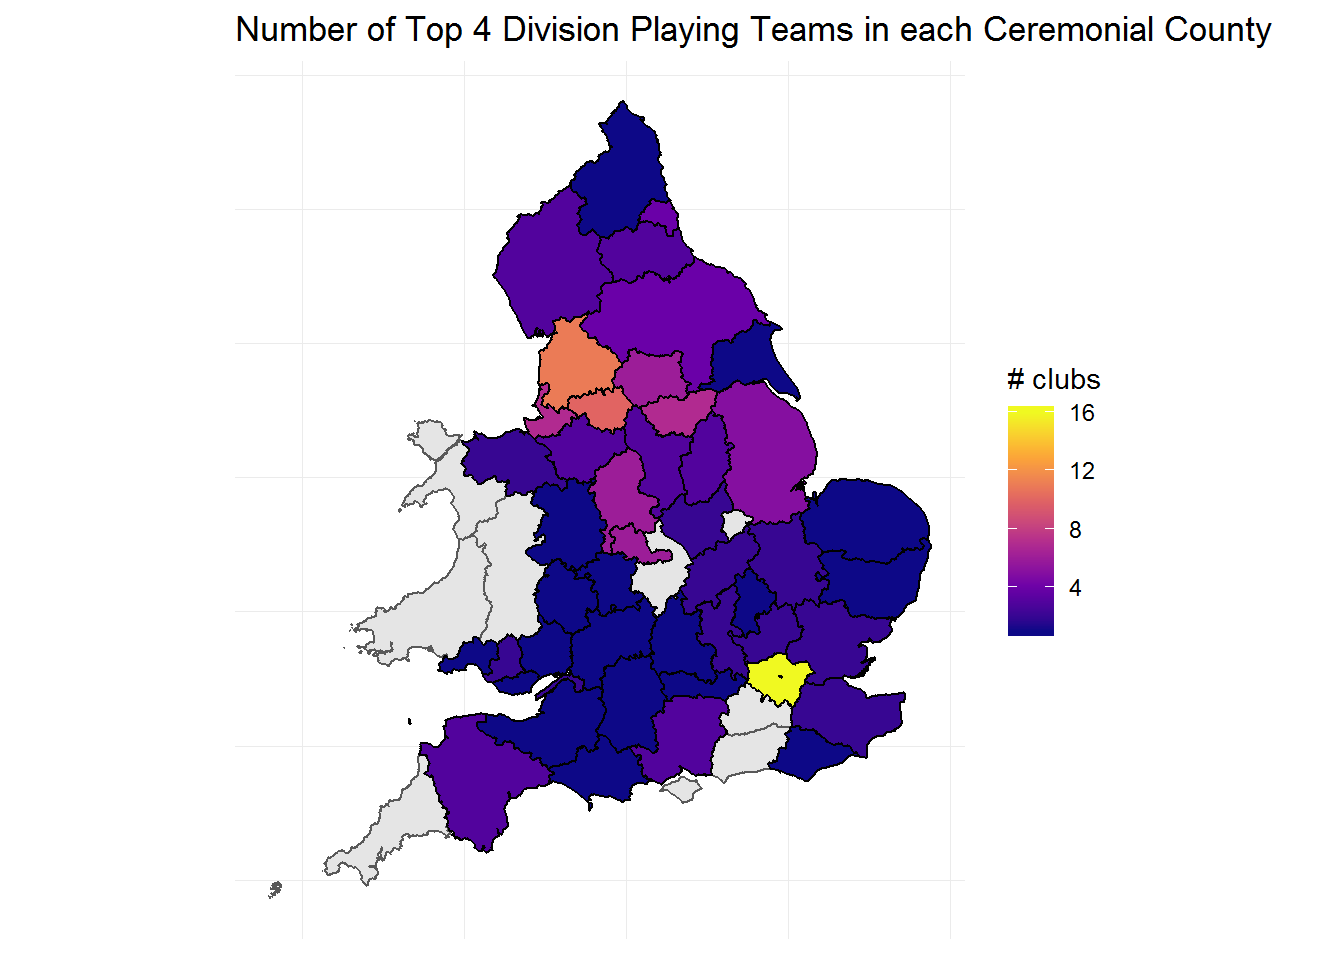
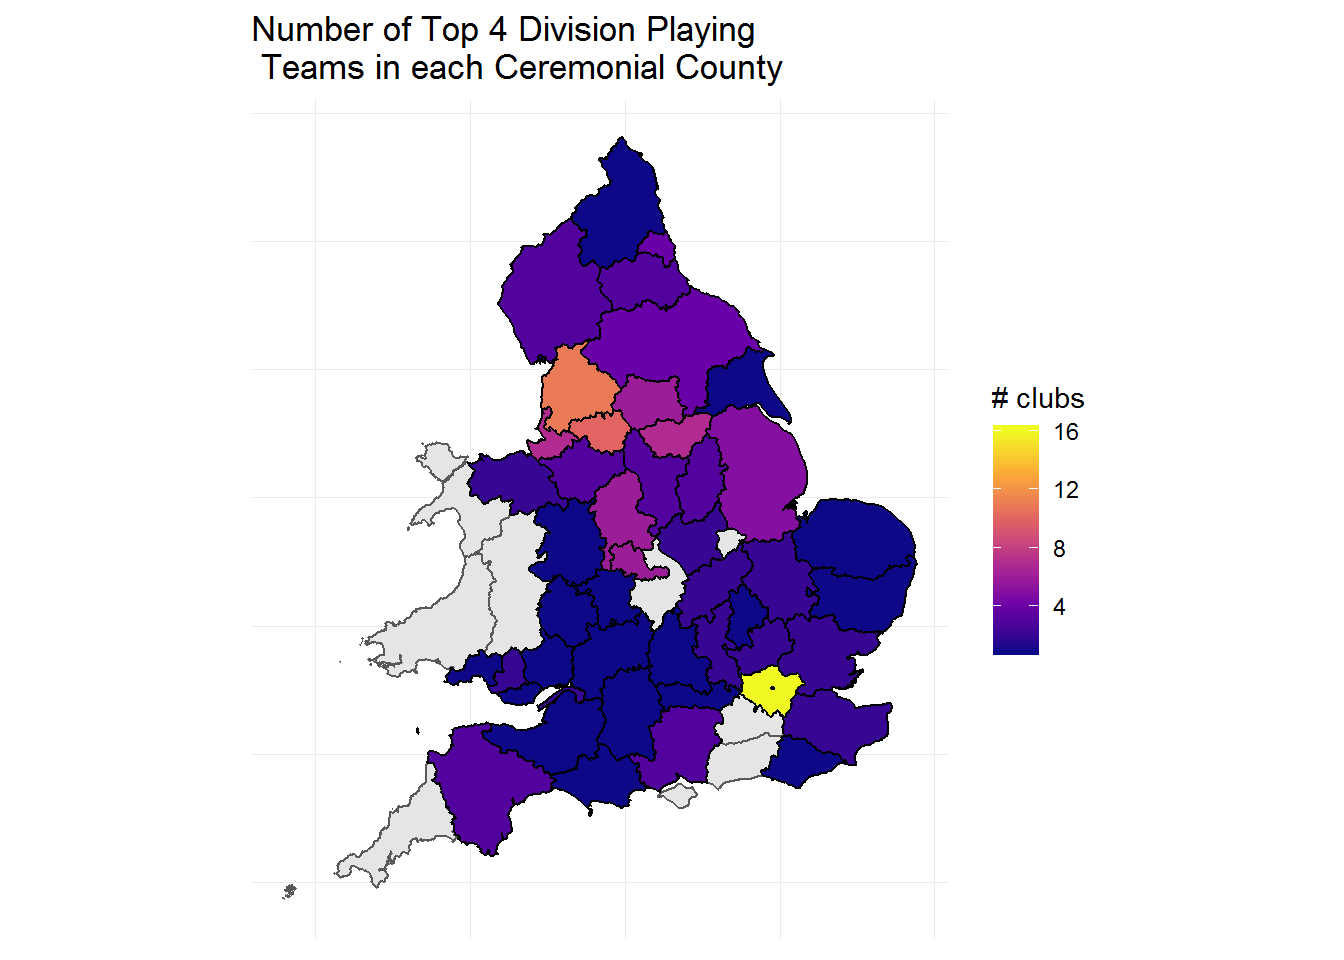
more small changes to 2nd knowledge post

Changed region(s): [[0.1875, 0.0, 0.9375, 0.9375], [0.3438, 0.875, 0.375, 0.9062], [0.1875, 0.9062, 0.2188, 0.9375]]

diff --git a/content/post/2019-01-21-The_Knowledge_2.html b/content/post/2019-01-21-The_Knowledge_2.html
@@ -194,7 +194,7 @@ engwal &lt;- counties %&gt;%
 ggplot() +
   geom_sf(data = counties, fill = NA) +
   geom_sf(data = all_locations) +
-  ggtitle(&quot;Location of All Teams to have Played Top 4 English Football Divisions&quot;) +
+  ggtitle(&quot;Location of Teams to have Played Top\n 4 English Football Divisions&quot;) +
   theme_minimal() +
   theme(axis.title=element_blank(),
         axis.text=element_blank(),
@@ -217,7 +217,7 @@ counties %&gt;%
   geom_sf(data = engwal) +
   geom_sf(aes(fill = n_clubs), colour = &quot;black&quot;) +
   scale_fill_viridis_c(option = &quot;plasma&quot;, name = &quot;# clubs&quot;) +
-  ggtitle(&quot;Number of Top 4 Division Playing Teams in each Ceremonial County&quot;) +
+  ggtitle(&quot;Number of Top 4 Division Playing\n Teams in each Ceremonial County&quot;) +
   theme_minimal() +
   theme(axis.title=element_blank(),
         axis.text=element_blank(),
@@ -273,7 +273,7 @@ county_points &lt;- county_match_data %&gt;%
   geom_sf(data = engwal) +
   geom_sf(aes(fill = total_points), colour = &quot;black&quot;) +
   scale_fill_viridis_c(option = &quot;plasma&quot;, name = &quot;total points&quot;) +
-  ggtitle(&quot;Number of Points Won by each County per Tier of English Football&quot;) +
+  ggtitle(&quot;Number of Points Won by each County\n per Tier of English Football&quot;) +
   facet_wrap(~tier) +
   theme_minimal() +
   theme(axis.title=element_blank(),
@@ -292,7 +292,7 @@ county_points &lt;- county_match_data %&gt;%
   geom_sf(data = engwal) +
   geom_sf(aes(fill = total_points), colour = &quot;black&quot;, name = &quot;total points&quot;) +
   scale_fill_viridis_c(option = &quot;plasma&quot;) +
-  ggtitle(&quot;Number of Points Won by each County per Tier of English Football&quot;,
+  ggtitle(&quot;Number of Points Won by each County\n per Tier of English Football&quot;,
           subtitle = &quot;From Begining of 1992/1993 Season&quot;) +
   facet_wrap(~tier) +
   theme_minimal() +

diff --git a/public/post/counties_league_points/index.html b/public/post/counties_league_points/index.html
@@ -504,7 +504,7 @@ engwal &lt;- counties %&gt;%
 ggplot() +
   geom_sf(data = counties, fill = NA) +
   geom_sf(data = all_locations) +
-  ggtitle(&quot;Location of All Teams to have Played Top 4 English Football Divisions&quot;) +
+  ggtitle(&quot;Location of Teams to have Played Top\n 4 English Football Divisions&quot;) +
   theme_minimal() +
   theme(axis.title=element_blank(),
         axis.text=element_blank(),
@@ -527,7 +527,7 @@ counties %&gt;%
   geom_sf(data = engwal) +
   geom_sf(aes(fill = n_clubs), colour = &quot;black&quot;) +
   scale_fill_viridis_c(option = &quot;plasma&quot;, name = &quot;# clubs&quot;) +
-  ggtitle(&quot;Number of Top 4 Division Playing Teams in each Ceremonial County&quot;) +
+  ggtitle(&quot;Number of Top 4 Division Playing\n Teams in each Ceremonial County&quot;) +
   theme_minimal() +
   theme(axis.title=element_blank(),
         axis.text=element_blank(),
@@ -583,7 +583,7 @@ county_points &lt;- county_match_data %&gt;%
   geom_sf(data = engwal) +
   geom_sf(aes(fill = total_points), colour = &quot;black&quot;) +
   scale_fill_viridis_c(option = &quot;plasma&quot;, name = &quot;total points&quot;) +
-  ggtitle(&quot;Number of Points Won by each County per Tier of English Football&quot;) +
+  ggtitle(&quot;Number of Points Won by each County\n per Tier of English Football&quot;) +
   facet_wrap(~tier) +
   theme_minimal() +
   theme(axis.title=element_blank(),
@@ -602,7 +602,7 @@ county_points &lt;- county_match_data %&gt;%
   geom_sf(data = engwal) +
   geom_sf(aes(fill = total_points), colour = &quot;black&quot;, name = &quot;total points&quot;) +
   scale_fill_viridis_c(option = &quot;plasma&quot;) +
-  ggtitle(&quot;Number of Points Won by each County per Tier of English Football&quot;,
+  ggtitle(&quot;Number of Points Won by each County\n per Tier of English Football&quot;,
           subtitle = &quot;From Begining of 1992/1993 Season&quot;) +
   facet_wrap(~tier) +
   theme_minimal() +
